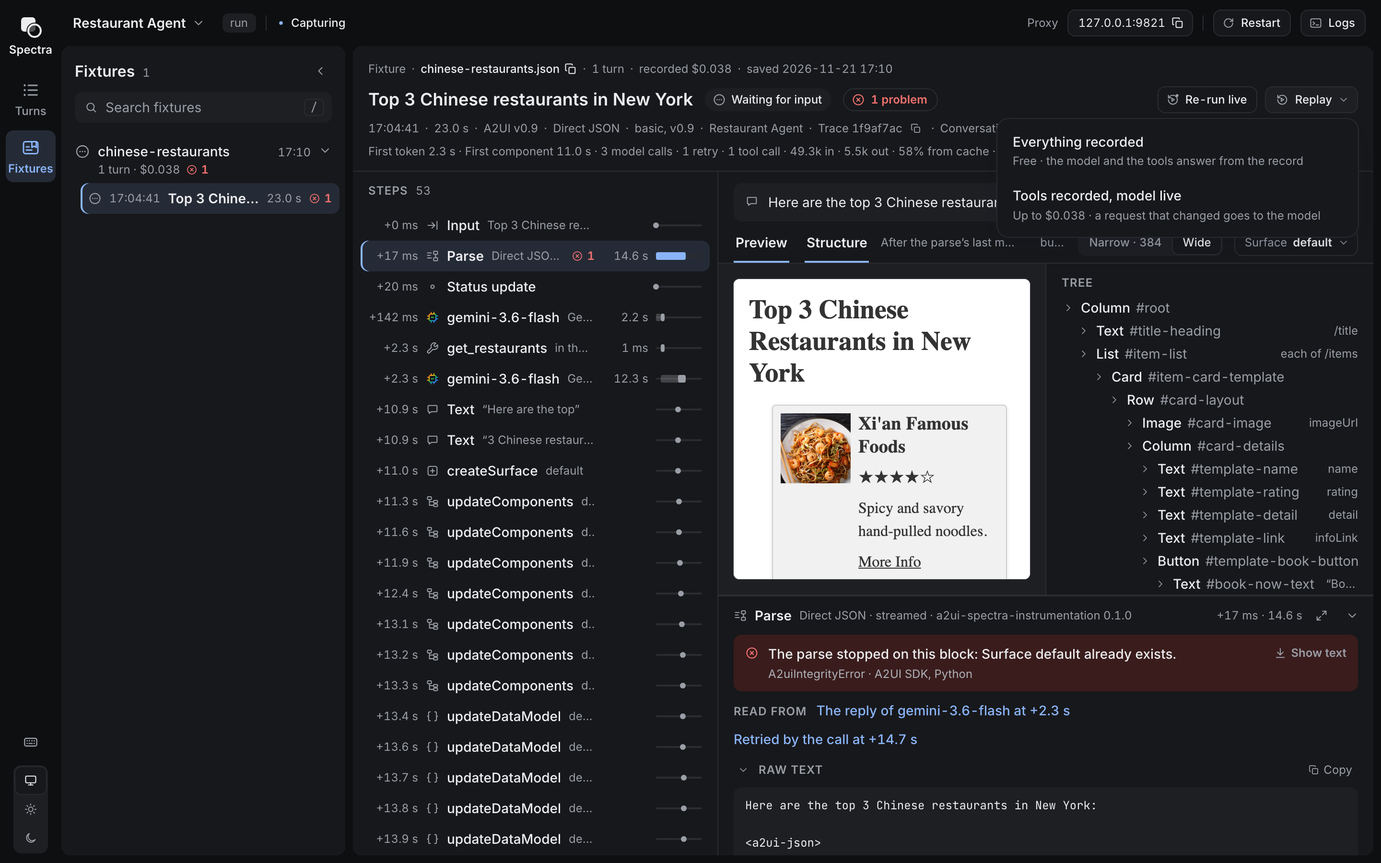
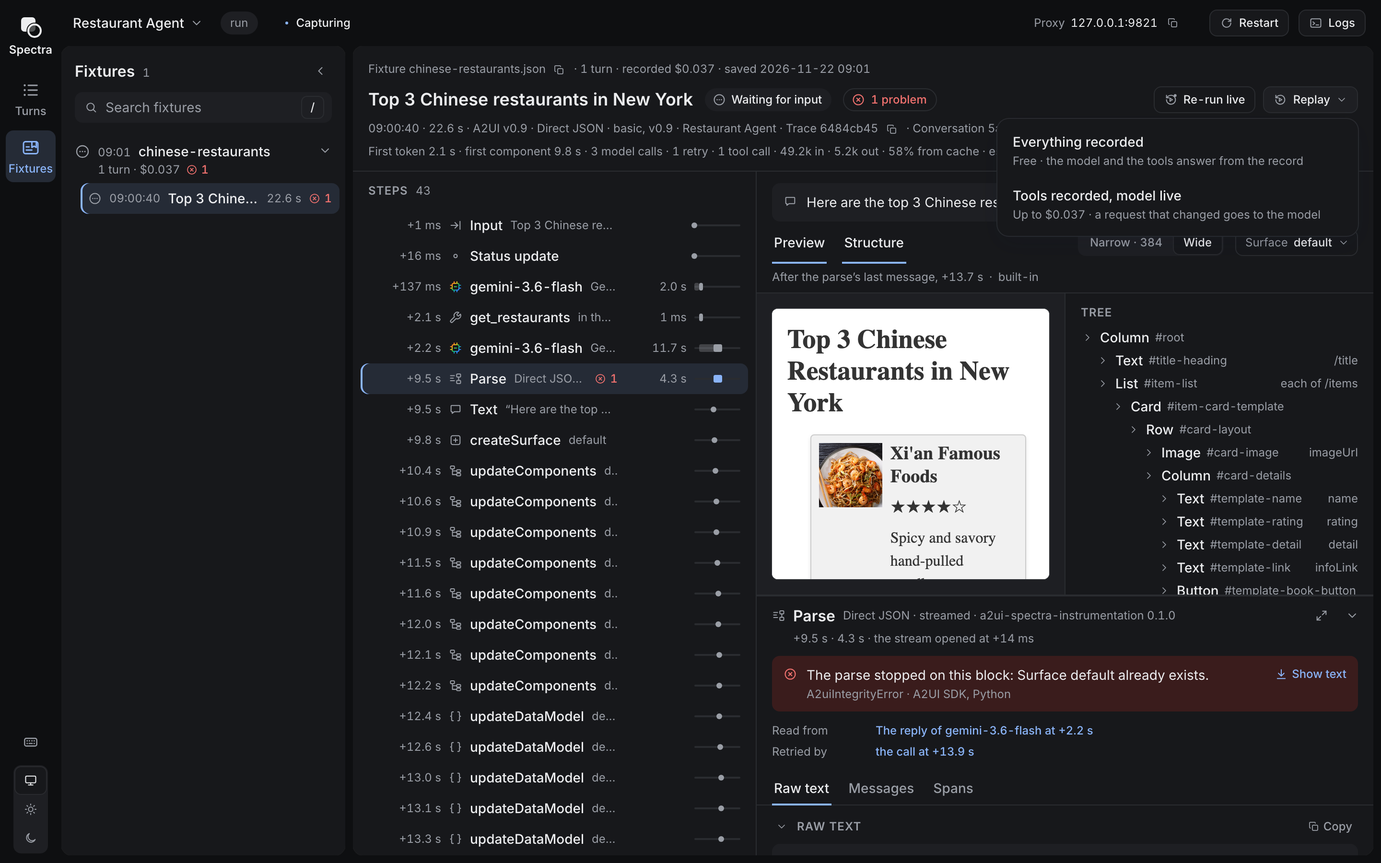
docs(phase-10): the seven images retaken on the new viewer, from one fresh run of upstream's Python restaurant finder on Gemini on the compiled binary, and the text quoting the run written again to it
The turn's GIF, the closed turn opened on its problem, the fixture's Replay menu and the replayed turn, in light and dark. The run's turn took 22.6 s, its parse stopped on "Surface default already exists" and its retry passed, as before; the alt texts and the sentences in the viewer doc and the turn's end-to-end doc give its times, its costs, its one text part, the fixture's saved time and the replay's 164 ms.

diff --git a/docs/design/viewer.md b/docs/design/viewer.md
@@ -51,13 +51,13 @@ The restaurant finder runs under `a2ui-spectra run`, with the Python wrapper swi
 
 <picture>
   <source media="(prefers-color-scheme: dark)" srcset="../images/viewer-dark.png">
-  <img alt="The viewer on the restaurant finder's turn. The turn list holds one conversation with one turn and one problem. The header reads Top 3 Chinese restaurants in New York, Waiting for input, 1 problem, with Save as fixture, Re-run live and Replay; under it the start, the duration, A2UI v0.9, Direct JSON, basic v0.9, the agent and the ids, then First token 2.3 s, First component 11.0 s, 3 model calls, 1 retry, 1 tool call, the tokens, 58% from cache and the estimated cost. The timeline's selected row is the parse, with one problem. The result shows the preview of the restaurant card beside its tree, and the parse's detail below reads The parse stopped on this block: Surface default already exists, Read from the reply of gemini-3.6-flash at +2.3 s, Retried by the call at +14.7 s, then the raw text." src="../images/viewer-light.png">
+  <img alt="The viewer on the restaurant finder's turn. The turn list holds one conversation with one turn and one problem. The header reads Top 3 Chinese restaurants in New York, Waiting for input, 1 problem, with Save as fixture, Re-run live and Replay; under it the start, the duration, A2UI v0.9, Direct JSON, basic v0.9, the agent and the ids, then First token 2.1 s, first component 9.8 s, 3 model calls, 1 retry, 1 tool call, the tokens, 58% from cache and the estimated cost. The timeline's selected row is the parse, with one problem. The result shows the preview of the restaurant card beside its tree, and the parse's detail below reads The parse stopped on this block: Surface default already exists, Read from the reply of gemini-3.6-flash at +2.2 s, Retried by the call at +13.9 s, then its tabs, Raw text open." src="../images/viewer-light.png">
 </picture>
 
 1. **The turn opens.** The live stream says a turn opened. The turn list gains a row with the open turn's spinner, and since the newest turn was selected, the page selects the new one. The timeline is marked Live and follows its newest row.
-2. **The steps arrive.** A status update, then the first model call, `gemini-3.6-flash` in Gemini's colours, then the tool call `get_restaurants`, "in the agent", read from the agent's spans, then the second model call, whose bar is lighter until its first token and darker after. The parse row, "Parse · Direct JSON · streamed", comes in at its first chunk, after the second model call, and draws a bar from there to its end. Two text parts and the A2UI messages follow, each a dot at its moment.
+2. **The steps arrive.** A status update, then the first model call, `gemini-3.6-flash` in Gemini's colours, then the tool call `get_restaurants`, "in the agent", read from the agent's spans, then the second model call, whose bar is lighter until its first token and darker after. The parse row, "Parse · Direct JSON · streamed", comes in at its first chunk, after the second model call, and draws a bar from there to its end. A text part and the A2UI messages follow, each a dot at its moment.
 3. **The turn closes.** It ends waiting for input. The view lands on its first problem, the parse, and opens the step's detail on it. The header reads "1 problem"; its second line gives the start, the duration, the A2UI version, the inference format and the catalog the turn used; its third line the time to the first token and to the first component, the calls, the retry, the tokens, the share read from the cache and the estimated cost.
-4. **The parse's detail says what happened.** "The parse stopped on this block: Surface default already exists." over "A2uiIntegrityError · A2UI SDK, Python", with Show text. "Read from" links the model call whose reply the parse read, "The reply of gemini-3.6-flash at +2.3 s", and "Retried by the call at +14.7 s" links the call that followed. The raw text below has the rejected block in red.
+4. **The parse's detail says what happened.** "The parse stopped on this block: Surface default already exists." over "A2uiIntegrityError · A2UI SDK, Python", with Show text. "Read from" links the model call whose reply the parse read, "The reply of gemini-3.6-flash at +2.2 s", and "Retried by" links the call that followed, "the call at +13.9 s". The Raw text tab under them has the rejected block in red.
 5. **The result shows the surfaces after the parse.** The note reads "After the parse’s last message", the Preview draws the restaurant card through the basic catalog's renderer, and Structure shows its tree, each row with the path it binds.
 6. **The retry says why.** Selecting the third model call shows, before its prefix break, a grey sentence naming the call whose reply failed and the error, with "failed to parse" a link back to the parse.
 
@@ -278,14 +278,14 @@ On the right of the first line sit [Save as fixture](#save-as-fixture), [Re-run 
 
 | Part                        | What it counts                                                                                                                                         |
 | --------------------------- | ------------------------------------------------------------------------------------------------------------------------------------------------------ |
-| "First token 2.3 s"         | From the turn's start to the first model call's first chunk, or its end when it did not stream or is read from spans only. A miss gives no first token |
-| "first component 11.0 s"    | From the turn's start to the first A2UI message                                                                                                        |
+| "First token 2.1 s"         | From the turn's start to the first model call's first chunk, or its end when it did not stream or is read from spans only. A miss gives no first token |
+| "first component 9.8 s"     | From the turn's start to the first A2UI message                                                                                                        |
 | "3 model calls"             | The model calls, raw ones and those read from spans only included                                                                                      |
 | "1 retry"                   | The retries among them, when there are any                                                                                                             |
 | "1 tool call"               | The full tool rows: housekeeping and the toolset's calls, shown as their parses, are left out                                                          |
-| "49.3k in · 5.5k out"       | The input and output tokens summed over the calls with usage, those read from spans only included, as `9.1k` above a thousand                          |
+| "49.2k in · 5.2k out"       | The input and output tokens summed over the calls with usage, those read from spans only included, as `9.1k` above a thousand                          |
 | "58% from cache"            | The share of the input read from the cache, when the turn read any                                                                                     |
-| "est. $0.038"               | The estimated cost of the priced calls, to two significant figures and at most four decimals                                                           |
+| "est. $0.037"               | The estimated cost of the priced calls, to two significant figures and at most four decimals                                                           |
 | "1 call unpriced"           | How many calls have no price                                                                                                                           |
 | "LiteLLM prices 2026-10-28" | The price table's date, or "prices from the config" when every priced call used the config's price                                                     |
 | "1 call recorded raw"       | How many calls were recorded raw                                                                                                                       |
@@ -477,7 +477,7 @@ Such a step ends with the delivery it arrived in, folded, under "Delivery" with 
 
 ### A model call's detail
 
-The title line holds the model id, the API and where the call was seen, the model proxy and the agent's spans linked to it. The facts line holds its start, its duration and its time to the first token. The usage line holds its tokens in and out, its reasoning tokens, the share of its input read from the cache and its estimated cost, with where the price came from: "15.5k in · 3.1k out · 1.8k reasoning · 84% from cache · est. $0.015 · LiteLLM prices 2026-10-28"; "free · served from the record" for a served call; "price from the config"; or "no price for `<model>`". A call read from spans adds where its tokens came from, "tokens from ADK spans". The usage line is left out when the call states no input tokens, and the share from the cache when the input is 0; the exact counts stay in the Spans tab's attributes and the HTTP tab's response body. The estimated cost is computed in the page, from the price table read once from `GET /api/prices`.
+The title line holds the model id, the API and where the call was seen, the model proxy and the agent's spans linked to it. The facts line holds its start, its duration and its time to the first token. The usage line holds its tokens in and out, its reasoning tokens, the share of its input read from the cache and its estimated cost, with where the price came from: "15.5k in · 3.0k out · 1.7k reasoning · 84% from cache · est. $0.014 · LiteLLM prices 2026-10-28"; "free · served from the record" for a served call; "price from the config"; or "no price for `<model>`". A call read from spans adds where its tokens came from, "tokens from ADK spans". The usage line is left out when the call states no input tokens, and the share from the cache when the input is 0; the exact counts stay in the Spans tab's attributes and the HTTP tab's response body. The estimated cost is computed in the page, from the price table read once from `GET /api/prices`.
 
 Its connections:
 
@@ -584,11 +584,11 @@ The Fixtures section switches the panels: the fixtures list and the fixture view
 
 #### The fixture view
 
-The fixture view is the turn view's shape, under a fixture line: "Fixture" and the file's name, followed by its copy button, then the turn count, the recorded estimated cost, priced as the header's third line prices it, "recorded $0.038" or "recorded cost unknown", left out until the prices are read, or "nothing recorded to serve" on a record with nothing to serve, and when it was saved, "saved 2026-11-21 17:10".
+The fixture view is the turn view's shape, under a fixture line: "Fixture" and the file's name, followed by its copy button, then the turn count, the recorded estimated cost, priced as the header's third line prices it, "recorded $0.037" or "recorded cost unknown", left out until the prices are read, or "nothing recorded to serve" on a record with nothing to serve, and when it was saved, "saved 2026-11-22 09:01".
 
 <picture>
   <source media="(prefers-color-scheme: dark)" srcset="../images/replay-menu-dark.png">
-  <img alt="The Fixtures section with one fixture, chinese-restaurants, holding one turn with one problem. Its view's fixture line reads Fixture, chinese-restaurants.json, 1 turn, recorded $0.038, saved 2026-11-21 17:10. The Replay popover is open with two rows: Everything recorded, Free, the model and the tools answer from the record; and Tools recorded, model live, Up to $0.038, a request that changed goes to the model." src="../images/replay-menu-light.png">
+  <img alt="The Fixtures section with one fixture, chinese-restaurants, holding one turn with one problem. Its view's fixture line reads Fixture chinese-restaurants.json, 1 turn, recorded $0.037, saved 2026-11-22 09:01. The Replay popover is open with two rows: Everything recorded, Free, the model and the tools answer from the record; and Tools recorded, model live, Up to $0.037, a request that changed goes to the model." src="../images/replay-menu-light.png">
 </picture>
 
 - A press in its preview is dropped.
@@ -608,7 +608,7 @@ Replay sits on the right of the header's first line, in Turns and in the fixture
 | Row                          | Cost label                                                                                                                                                                                                                    |
 | ---------------------------- | ----------------------------------------------------------------------------------------------------------------------------------------------------------------------------------------------------------------------------- |
 | "Everything recorded"        | "Free · the model and the tools answer from the record"; on a record with nothing to serve, by the server's rule, the row is off and reads "No model or tool calls were recorded"                                             |
-| "Tools recorded, model live" | "Up to $0.038 · a request that changed goes to the model", the record's recorded cost; "Cost unknown · a request that changed goes to the model" with no priced call; "Cost unknown · nothing recorded" with nothing to serve |
+| "Tools recorded, model live" | "Up to $0.037 · a request that changed goes to the model", the record's recorded cost; "Cost unknown · a request that changed goes to the model" with no priced call; "Cost unknown · nothing recorded" with nothing to serve |
 
 Both rows are off, with Re-run's note under their label, whenever [Re-run live](#re-run-live) is. The server is the authority on a refusal: its answer is shown in the popover, with nothing moved. Pressing a row starts the replay; the rows are off while the request is on its way, and the popover closes once the first turn has opened. The page switches to Turns and follows the replayed turns as they open, until another turn is selected or the address moves. In the fixture view, Replay replays the whole fixture, whatever turn is in view. What the two modes do is in [replay and fixtures](replay-and-fixtures.md).
 
@@ -632,7 +632,7 @@ A replayed turn has a fourth quiet line under its header: "Replayed from", the s
 
 <picture>
   <source media="(prefers-color-scheme: dark)" srcset="../images/replay-passed-dark.png">
-  <img alt="A replayed turn of the fixture. The header's third line reads First token 175 ms, First component 231 ms, 1 retry, 1 tool call, 3 calls from the record, Free; the fourth line reads Replayed from chinese-restaurants.json, turn 1 of 1, everything recorded, passed. The two served model calls carry a grey Record tag in the timeline." src="../images/replay-passed-light.png">
+  <img alt="A replayed turn of the fixture. The header's third line reads First token 30 ms, first component 93 ms, 1 retry, 1 tool call, 3 calls from the record, free; the fourth line reads Replayed from chinese-restaurants.json, turn 1 of 1, everything recorded, passed. The served retry carries the grey tag Retry 1 · Record in the timeline." src="../images/replay-passed-light.png">
 </picture>
 
 A re-run turn's line reads "Re-run of", its source, its number of the total and "live", with no verdict and no colour, and its header's third line counts every call as live.
@@ -671,7 +671,7 @@ Its header, "Logs", names the agent's command, cut, and counts the lines held an
 - **Each output line**, with its time to the millisecond in the page's time zone, its stream as `out` or `err`, and its text, the ANSI escape codes stripped and only what follows the line's last carriage return shown, the carriage returns the line ends in not counted. A long line scrolls sideways while the dividers and markers stay in view.
 - **Each divider** the buffer holds, "Started · uv run ." and "Stopped · prompt_builder.py changed · exited with code 143", the session's first start included; a long one is cut, with its whole text as its tooltip.
 - **"No output yet."**, under the dividers for as long as no output line is held.
-- **Turn markers.** Each listed turn, whatever agent the turn list is showing, is marked where it opened, "Turn opened ·" and its name as the turn list names it, or "A turn" before its input has come, a link that selects it in Turns and leaves the drawer open; and where it closed, "Turn closed ·" with its outcome in the header's words, lower-case, and its duration, "Turn closed · waiting for input · 23.0 s". A marker is drawn only when its moment is not earlier than the oldest entry the buffer holds; among the entries of its millisecond, an opened marker comes first and a closed one last.
+- **Turn markers.** Each listed turn, whatever agent the turn list is showing, is marked where it opened, "Turn opened ·" and its name as the turn list names it, or "A turn" before its input has come, a link that selects it in Turns and leaves the drawer open; and where it closed, "Turn closed ·" with its outcome in the header's words, lower-case, and its duration, "Turn closed · waiting for input · 22.6 s". A marker is drawn only when its moment is not earlier than the oldest entry the buffer holds; among the entries of its millisecond, an opened marker comes first and a closed one last.
 
 The drawer follows its end until the reader scrolls up, and Jump to latest resumes. It closes by its close button, "Close the logs", or by Logs; Escape does not close it. While the page is not connected, it keeps what it held.
 

diff --git a/docs/design/turn-end-to-end.md b/docs/design/turn-end-to-end.md
@@ -64,7 +64,7 @@ The record states what each tap saw. The retry, the model call a parse read, the
 
 The restaurant finder runs from its folder in upstream's repository under `a2ui-spectra run`, launched through `opentelemetry-instrument` with [the recipe for a Python agent](opentelemetry.md#the-recipe-for-a-python-agent) and the Python wrapper, [switched on](a2ui-step.md#switching-it-on) by the same launch. Its model is Gemini's `gemini-3.6-flash`, which ADK calls through Google's SDK, google-genai. You send "Top 3 Chinese restaurants in New York" from the message box. The viewer, from that run:
 
-![The viewer on upstream's Python restaurant finder. The first screen names the agent, Restaurant Agent, capturing, with an example from its card and the wire proxy's address. Then the turn Top 3 Chinese restaurants in New York is open, its timeline marked Live: the input, a status update, the first model call, the tool call get_restaurants and the second model call arrive as steps, then two text parts and the A2UI messages, while the built-in page draws the restaurant list in the preview and the tree grows in Structure. A third model call is tagged Retry 1. The turn closes waiting for input, with one problem, and the view lands on the parse.](../images/turn.gif)
+![The viewer on upstream's Python restaurant finder. The first screen names the agent, Restaurant Agent, capturing, with an example from its card and the wire proxy's address. Then the turn Top 3 Chinese restaurants in New York is open, its timeline marked Live: the input, a status update, the first model call, the tool call get_restaurants and the second model call arrive as steps, then a text part and the A2UI messages, while the built-in page draws the restaurant list in the preview and the tree grows in Structure. A third model call is tagged Retry 1. The turn closes waiting for input, with one problem, and the view lands on the parse.](../images/turn.gif)
 
 The parts the turn crosses, in order:
 
@@ -250,10 +250,10 @@ The store then writes the turn as one turn record file, `.a2ui-spectra/turns/<co
 
 <picture>
   <source media="(prefers-color-scheme: dark)" srcset="../images/viewer-dark.png">
-  <img alt="The viewer on the closed turn. The context bar reads Restaurant Agent, run, Capturing, with the wire proxy's address 127.0.0.1:9821, Restart and Logs. The turn list holds one conversation with one turn and one problem. The header reads Top 3 Chinese restaurants in New York, Waiting for input, 1 problem, with Save as fixture, Re-run live and Replay; then 17:04:41, 23.0 s, A2UI v0.9, Direct JSON, basic v0.9, Restaurant Agent and the trace and conversation ids; then First token 2.3 s, First component 11.0 s, 3 model calls, 1 retry, 1 tool call, 49.3k in, 5.5k out, 58% from cache, Est. $0.038, LiteLLM prices 2026-10-28. The timeline's selected row is the parse. The result shows the restaurant card in the Preview beside its tree in Structure, and the parse's detail reads The parse stopped on this block: Surface default already exists, Read from the reply of gemini-3.6-flash at +2.3 s, Retried by the call at +14.7 s, then the raw text." src="../images/viewer-light.png">
+  <img alt="The viewer on the closed turn. The context bar reads Restaurant Agent, run, Capturing, with the wire proxy's address 127.0.0.1:9821, Restart and Logs. The turn list holds one conversation with one turn and one problem. The header reads Top 3 Chinese restaurants in New York, Waiting for input, 1 problem, with Save as fixture, Re-run live and Replay; then 09:00:40, 22.6 s, A2UI v0.9, Direct JSON, basic v0.9, Restaurant Agent and the trace and conversation ids; then First token 2.1 s, first component 9.8 s, 3 model calls, 1 retry, 1 tool call, 49.2k in, 5.2k out, 58% from cache, est. $0.037, LiteLLM prices 2026-10-28. The timeline's selected row is the parse. The result shows the restaurant card in the Preview beside its tree in Structure, and the parse's detail reads The parse stopped on this block: Surface default already exists, Read from the reply of gemini-3.6-flash at +2.2 s, Retried by the call at +13.9 s, then its tabs, Raw text open." src="../images/viewer-light.png">
 </picture>
 
-The closed turn, from the same run. The viewer reads the session and the turns from Spectra's server, follows the live stream, and works out what it shows from the record. The header gives the request, the outcome, "Waiting for input", and the one problem; then the start, the duration, the A2UI version, the inference format and the catalog the turn used, the agent and the trace and conversation ids; then the time to the first token and to the first component, the 3 model calls, the 1 retry, the 1 tool call, the tokens, the share read from the cache and the estimated cost, with the date of the price table. The turn landed on its first problem: the parse, selected in the timeline among its 53 steps, its detail reading "The parse stopped on this block: Surface default already exists.", "Read from" the reply of the call at +2.3 s, and "Retried by the call at +14.7 s", over the raw text. The result beside the timeline shows the surface after the parse's last message, the restaurant card in the Preview and its tree in Structure, each node with the path it binds. The composer offers to continue the conversation, the agent waiting for input. [The viewer](viewer.md) takes the page area by area.
+The closed turn, from the same run. The viewer reads the session and the turns from Spectra's server, follows the live stream, and works out what it shows from the record. The header gives the request, the outcome, "Waiting for input", and the one problem; then the start, the duration, the A2UI version, the inference format and the catalog the turn used, the agent and the trace and conversation ids; then the time to the first token and to the first component, the 3 model calls, the 1 retry, the 1 tool call, the tokens, the share read from the cache and the estimated cost, with the date of the price table. The turn landed on its first problem: the parse, selected in the timeline among its 43 steps, its detail reading "The parse stopped on this block: Surface default already exists.", "Read from" the reply of the call at +2.2 s, and "Retried by" the call at +13.9 s, over its Raw text tab. The result beside the timeline shows the surface after the parse's last message, the restaurant card in the Preview and its tree in Structure, each node with the path it binds. The composer offers to continue the conversation, the agent waiting for input. [The viewer](viewer.md) takes the page area by area.
 
 ### 9. The preview draws the surface
 
@@ -265,17 +265,17 @@ Save as fixture copies a turn's record, whole, into the fixtures folder, `a2ui-s
 
 <picture>
   <source media="(prefers-color-scheme: dark)" srcset="../images/replay-menu-dark.png">
-  <img alt="The Fixtures section with one fixture, chinese-restaurants, holding one turn with one problem. The fixture line reads Fixture, chinese-restaurants.json, 1 turn, recorded $0.038, saved 2026-11-21 17:10, over the turn Top 3 Chinese restaurants in New York, 17:04:41, 23.0 s. The Replay menu is open: Everything recorded, Free, the model and the tools answer from the record; and Tools recorded, model live, Up to $0.038, a request that changed goes to the model." src="../images/replay-menu-light.png">
+  <img alt="The Fixtures section with one fixture, chinese-restaurants, holding one turn with one problem. The fixture line reads Fixture chinese-restaurants.json, 1 turn, recorded $0.037, saved 2026-11-22 09:01, over the turn Top 3 Chinese restaurants in New York, 09:00:40, 22.6 s. The Replay menu is open: Everything recorded, Free, the model and the tools answer from the record; and Tools recorded, model live, Up to $0.037, a request that changed goes to the model." src="../images/replay-menu-light.png">
 </picture>
 
-The same turn, saved as `chinese-restaurants.json`. The fixture line reads 1 turn, recorded $0.038, saved 2026-11-21 17:10, and the Replay menu offers its two modes, "Everything recorded", free, and "Tools recorded, model live", up to $0.038.
+The same turn, saved as `chinese-restaurants.json`. The fixture line reads 1 turn, recorded $0.037, saved 2026-11-22 09:01, and the Replay menu offers its two modes, "Everything recorded", free, and "Tools recorded, model live", up to $0.037.
 
 <picture>
   <source media="(prefers-color-scheme: dark)" srcset="../images/replay-passed-dark.png">
-  <img alt="The replayed turn, listed above the turn it replayed. Its header reads 17:31:44, 315 ms; First token 175 ms, First component 231 ms, 1 retry, 1 tool call, 3 calls from the record, Free; and Replayed from chinese-restaurants.json, turn 1 of 1, everything recorded, passed. The model calls in the timeline carry a Record tag, and the parse's detail reads The parse stopped on this block: Surface default already exists, Read from the reply of gemini-3.6-flash at +187 ms, Retried by the call at +250 ms." src="../images/replay-passed-light.png">
+  <img alt="The replayed turn, listed above the turn it replayed. Its header reads 09:02:16, 164 ms; First token 30 ms, first component 93 ms, 1 retry, 1 tool call, 3 calls from the record, free; and Replayed from chinese-restaurants.json, turn 1 of 1, everything recorded, passed. The served retry in the timeline carries Retry 1 · Record, and the parse's detail reads The parse stopped on this block: Surface default already exists, Read from the reply of gemini-3.6-flash at +43 ms, Retried by the call at +104 ms." src="../images/replay-passed-light.png">
 </picture>
 
-Its replay with everything recorded: 315 ms, "3 calls from the record · Free", and "Replayed from chinese-restaurants.json · turn 1 of 1 · everything recorded · passed". The served model calls carry a Record tag, and the parse fails as it did in the recording, read from the reply served at +187 ms and retried by the call at +250 ms: the agent's own code runs again on the same replies.
+Its replay with everything recorded: 164 ms, "3 calls from the record · free", and "Replayed from chinese-restaurants.json · turn 1 of 1 · everything recorded · passed". The served model calls carry a Record tag, and the parse fails as it did in the recording, read from the reply served at +43 ms and retried by the call at +104 ms: the agent's own code runs again on the same replies.
 
 ## How the parts meet
 
